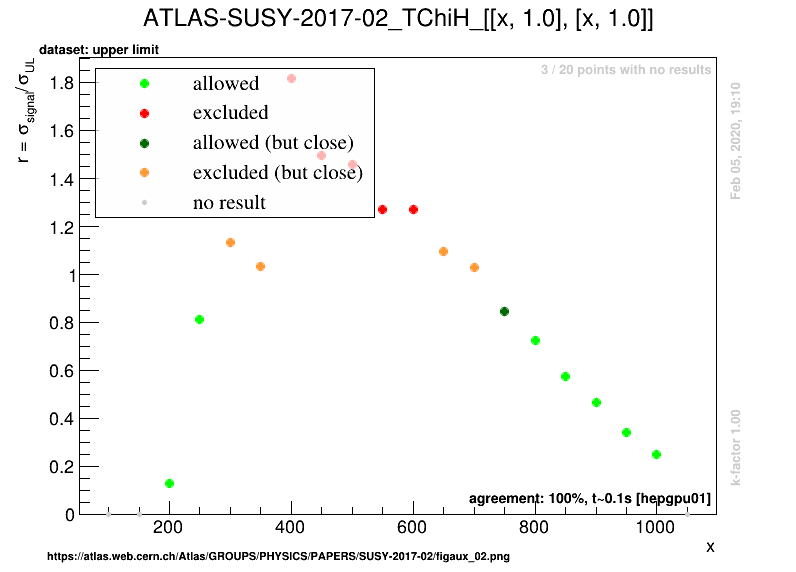
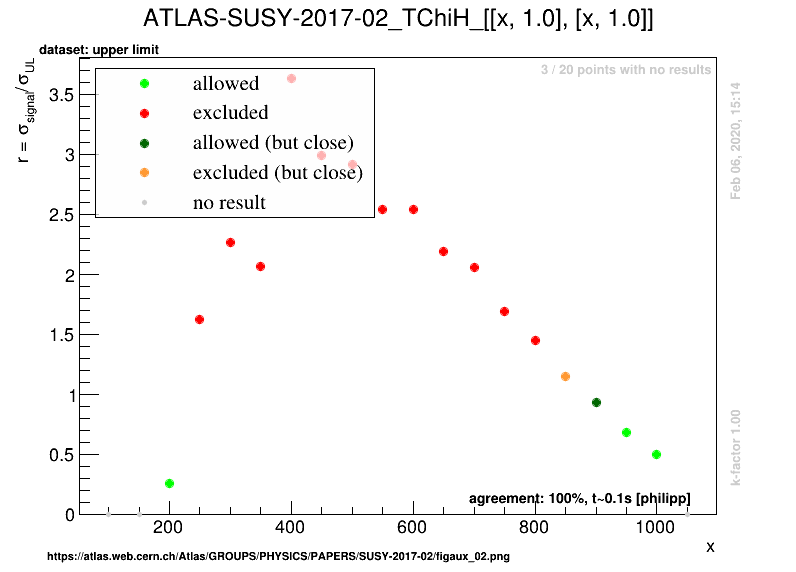
ATLAS-2017-02 fix

diff --git a/docs/SmsDictionary123phil.md b/docs/SmsDictionary123phil.md
@@ -25,7 +25,7 @@ There is also a [ListOfAnalyses123phil](https://smodels.github.io/docs/ListOfAna
 | 15 | <a name="T6WZh"></a>**T6WZh**<br> | `[[[q],[Z]],[[q],[W]]]+`<BR>`[[[q],[h]],[[q],[W]]]+`<BR>`[[[q],[Z]],[[q],[Z]]]+`<BR>`[[[q],[h]],[[q],[h]]]+`<BR>`[[[q],[Z]],[[q],[h]]]`<BR>`(MET,MET)` | ![T6WZh](../feyn/straight/T6WZh.png) | [ATLAS-SUSY-2016-07](ListOfAnalyses123phil#ATLAS-SUSY-2016-07)|
 | 16 | <a name="T6bbWW"></a>**T6bbWW**<br> | `[[[b],[W]],[[b],[W]]]`<BR>`(MET,MET)` | ![T6bbWW](../feyn/straight/T6bbWW.png) | [ATLAS-SUSY-2016-16](ListOfAnalyses123phil#ATLAS-SUSY-2016-16)|
 | 17 | <a name="TChiChipmSlepL"></a>**TChiChipm-<br>SlepL**<br> | `[[[L+],[L-]],[[L],[nu]]]+`<BR>`[[[L+],[L-]],[[nu],[L]]]+`<BR>`[[[L-],[L+]],[[L],[nu]]]+`<BR>`[[[L-],[L+]],[[nu],[L]]]`<BR>`(MET,MET)` | ![TChiChipmSlepL](../feyn/straight/TChiChipmSlepL.png) | [ATLAS-SUSY-2016-24](ListOfAnalyses123phil#ATLAS-SUSY-2016-24)|
-| 18 | <a name="TChiH"></a>**TChiH**<br> | `[[[Z]],[[Z]]]+`<BR>`[[[h]],[[h]]]`<BR>`(MET,MET)` | ![TChiH](../feyn/straight/TChiH.png) | [ATLAS-SUSY-2017-02](ListOfAnalyses123phil#ATLAS-SUSY-2017-02)|
+| 18 | <a name="TChiH"></a>**TChiH**<br> | `[[[Z]],[[Z]]]+`<BR>`[[[h]],[[h]]]+`<BR>`[[[h]],[[Z]]]`<BR>`(MET,MET)` | ![TChiH](../feyn/straight/TChiH.png) | [ATLAS-SUSY-2017-02](ListOfAnalyses123phil#ATLAS-SUSY-2017-02)|
 | 19 | <a name="TChiWH"></a>**TChiWH**<br> | `[[[W]],[[h]]]`<BR>`(MET,MET)` | ![TChiWH](../feyn/straight/TChiWH.png) | [ATLAS-SUSY-2017-01](ListOfAnalyses123phil#ATLAS-SUSY-2017-01)<BR>[ATLAS-SUSY-2019-08](ListOfAnalyses123phil#ATLAS-SUSY-2019-08)|
 | 20 | <a name="TChiWW"></a>**TChiWW**<br> | `[[[W]],[[W]]]`<BR>`(MET,MET)` | ![TChiWW](../feyn/straight/TChiWW.png) | [ATLAS-SUSY-2018-32](ListOfAnalyses123phil#ATLAS-SUSY-2018-32)|
 | 21 | <a name="TChiWZ"></a>**TChiWZ**<br> | `[[[W]],[[Z]]]`<BR>`(MET,MET)` | ![TChiWZ](../feyn/straight/TChiWZ.png) | [ATLAS-SUSY-2016-24](ListOfAnalyses123phil#ATLAS-SUSY-2016-24)|

diff --git a/docs/Validation123phil.md b/docs/Validation123phil.md
@@ -88,4 +88,4 @@ The validation procedure for upper limit maps used here is explained in [arXiv:1
 | [ATLAS-SUSY-2017-01](https://atlas.web.cern.ch/Atlas/GROUPS/PHYSICS/PAPERS/SUSY-2017-01/)| [TChiWH](SmsDictionary123phil#TChiWH)| 36.1|<a href="https://smodels.github.io/validation/123phil/13TeV/ATLAS/ATLAS-SUSY-2017-01-eff/validation/TChiWH_2EqMassAx_EqMassBy_pretty.png"><img src="https://smodels.github.io/validation/123phil/13TeV/ATLAS/ATLAS-SUSY-2017-01-eff/validation/TChiWH_2EqMassAx_EqMassBy_pretty.png" /></a>  | <img src="https://smodels.github.io/pics/new.png" /> in 1.2.3phil! [comment](https://smodels.github.io/validation/123phil/13TeV/ATLAS/ATLAS-SUSY-2017-01-eff/validation/TChiWH.txt) |
 | [ATLAS-SUSY-2018-32](https://atlas.web.cern.ch/Atlas/GROUPS/PHYSICS/PAPERS/SUSY-2018-32/)| [TChiWW](SmsDictionary123phil#TChiWW)| 139.0|<a href="https://smodels.github.io/validation/123phil/13TeV/ATLAS/ATLAS-SUSY-2018-32-eff/validation/TChiWW_2EqMassAx_EqMassBy_pretty.png"><img src="https://smodels.github.io/validation/123phil/13TeV/ATLAS/ATLAS-SUSY-2018-32-eff/validation/TChiWW_2EqMassAx_EqMassBy_pretty.png" /></a>  | <img src="https://smodels.github.io/pics/new.png" /> in 1.2.3phil!  |
 
-This page was created Thu Feb  6 14:52:01 2020
+This page was created Thu Feb  6 15:18:39 2020

diff --git a/docs/ValidationUgly123phil.md b/docs/ValidationUgly123phil.md
@@ -91,4 +91,4 @@ To [official validation plots](Validation123phil)
 | [ATLAS-SUSY-2017-01](https://atlas.web.cern.ch/Atlas/GROUPS/PHYSICS/PAPERS/SUSY-2017-01/)| [TChiWH](SmsDictionary123phil#TChiWH)| 36.1| tbd |<a href="https://smodels.github.io/validation/123phil/13TeV/ATLAS/ATLAS-SUSY-2017-01-eff/validation/TChiWH_2EqMassAx_EqMassBy.png"><img src="https://smodels.github.io/validation/123phil/13TeV/ATLAS/ATLAS-SUSY-2017-01-eff/validation/TChiWH_2EqMassAx_EqMassBy.png" /></a>  | <img src="https://smodels.github.io/pics/new.png" /> in 1.2.3phil! [comment](https://smodels.github.io/validation/123phil/13TeV/ATLAS/ATLAS-SUSY-2017-01-eff/validation/TChiWH.txt) |
 | [ATLAS-SUSY-2018-32](https://atlas.web.cern.ch/Atlas/GROUPS/PHYSICS/PAPERS/SUSY-2018-32/)| [TChiWW](SmsDictionary123phil#TChiWW)| 139.0| tbd |<a href="https://smodels.github.io/validation/123phil/13TeV/ATLAS/ATLAS-SUSY-2018-32-eff/validation/TChiWW_2EqMassAx_EqMassBy.png"><img src="https://smodels.github.io/validation/123phil/13TeV/ATLAS/ATLAS-SUSY-2018-32-eff/validation/TChiWW_2EqMassAx_EqMassBy.png" /></a>  | <img src="https://smodels.github.io/pics/new.png" /> in 1.2.3phil!  |
 
-This page was created Thu Feb  6 14:52:29 2020
+This page was created Thu Feb  6 15:19:08 2020
